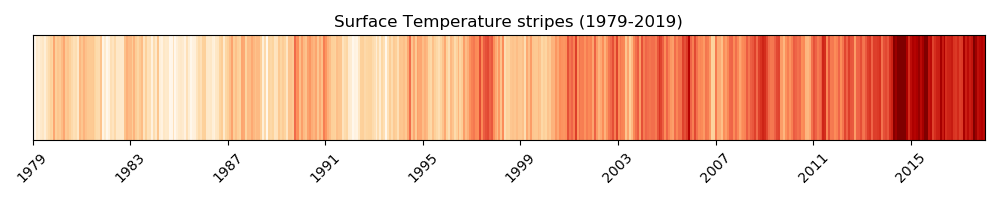
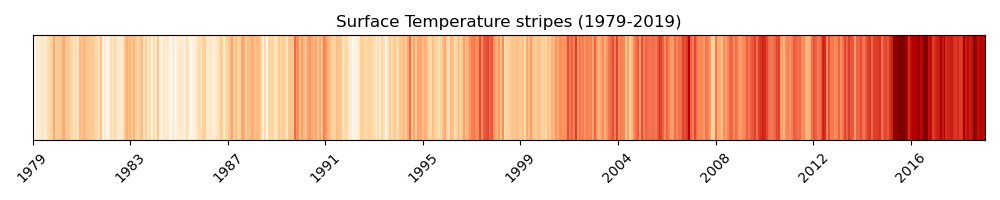
fix xticks when using dates (#59)
* fix xticks when using dates

* remove unnecessary prints

* Update climate-stripes.xml

* fix lint issues

* time column may not be called 'time' but Month, etc.

* add option nxsplit

* replace image when using dates

diff --git a/tools/climate-stripes/climate_stripes.py b/tools/climate-stripes/climate_stripes.py
@@ -72,7 +72,10 @@ class Stripes ():
             self.plot_format = plot_format.replace('X', '%')
 
     def read_data(self):
-        self.data = pd.read_csv(self.input, sep='\t')
+        if self.xname is not None:
+            self.data = pd.read_csv(self.input, sep='\t', index_col=self.xname, infer_datetime_format=True)
+        else:
+            self.data = pd.read_csv(self.input, sep='\t')
 
     def create_stripes(self):
         data = np.zeros((2, self.data[self.valname].shape[0]), dtype='float')
@@ -86,15 +89,11 @@ class Stripes ():
                    vmax=self.data[self.valname].quantile(q=0.99))
         if self.title:
             plt.title(self.title)
-        if self.xname:
+        if self.xname is not None:
             nrange = self.data.index.values
-            n = int(np.floor((nrange.max() - nrange.min()) / int(self.nxsplit)))
-            date_list = self.data[self.xname].loc[::n].apply(
-                lambda x: pd.to_datetime(str(x), format=self.format))
+            date_list = pd.to_datetime(nrange[::int(self.nxsplit)], format=self.format)
             date_list = [i.strftime(self.plot_format) for i in date_list]
-            nval = int(self.data[self.xname].loc[::n].shape[0])
-            ax.xaxis.set_major_locator(plt.MaxNLocator(nval))
-            ax.xaxis.set_ticklabels(date_list)
+            ax.set_xticks(np.arange(0, len(nrange), int(self.nxsplit)), date_list)
             ax.xaxis.set_tick_params(rotation=45)
         else:
             ax.set_xticks([])
